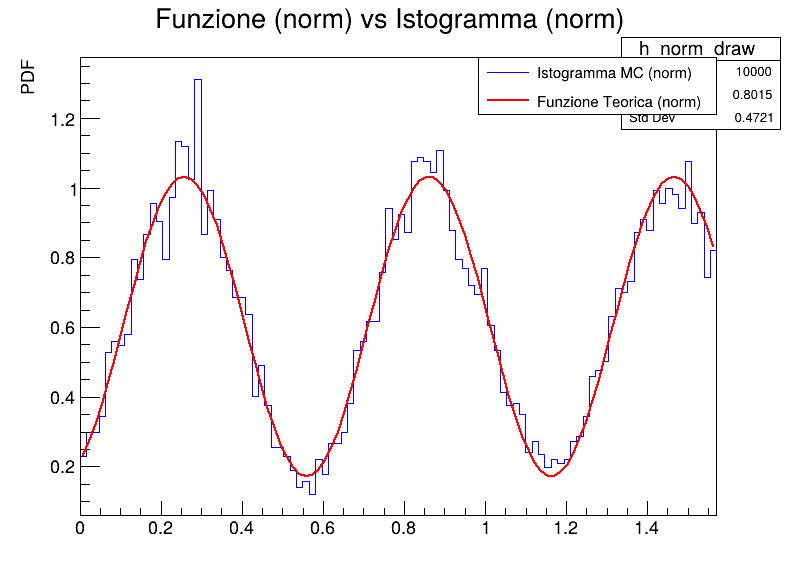
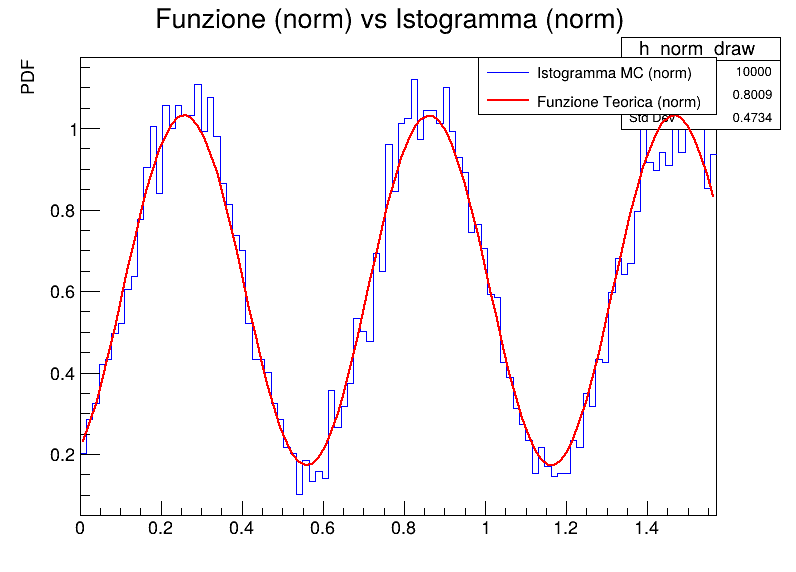
boh sto per morire

diff --git a/mcgenerator.cpp b/mcgenerator.cpp
@@ -23,7 +23,6 @@ MCgenerator::MCgenerator(int N_val, int Bins_val, double k_val, double teta_val,
       x_min(x_min_val),
       x_max(x_max_val),
       h(nullptr) {
-
   // imposto inceretzze sistematiche
   dk = 0.02 * k;
   dteta = 0.05 * teta;
@@ -71,30 +70,7 @@ TH1D* MCgenerator::Fillh() {
   return h;
 }
 
-double MCgenerator::GetRMSD() const {
-  double sum = 0.0;
-  int n_bins = h->GetNbinsX();
-
-  // normalizziamo la funzione per il confronto
-  TF1* f_norm = GetNormalizedFunction(k, teta, b, x_min, x_max);
-  // normalizziamo l'istogramma
-  TH1D* h_norm = (TH1D*)h->Clone("h_norm_temp");
-  h_norm->Scale(1.0 / h_norm->Integral("width"));
-
-  for (int i = 1; i <= n_bins; ++i) {
-    double x = h_norm->GetBinCenter(i);
-    double h_val = h_norm->GetBinContent(i);
-    double f_val = f_norm->Eval(x);
-    double diff = h_val - f_val;
-    sum += diff * diff;
-  }
-
-  delete f_norm;
-  delete h_norm;
-
-  return std::sqrt(sum / n_bins);
-}
-
+// pto 3.2
 TGraphErrors* MCgenerator::GraphMeanWithError(int N_replicas) {
   std::vector<std::vector<double>> bins(Bins);
 
@@ -104,7 +80,7 @@ TGraphErrors* MCgenerator::GraphMeanWithError(int N_replicas) {
     replica.Fillh();
     TH1D* h_replica = replica.GetHistogram();
 
-    // normalizza l'istogramma di replica a PDF
+    // normalizza l'istogramma di replica
     double integral = h_replica->Integral("width");
     if (integral == 0) integral = 1;
     h_replica->Scale(1.0 / integral);
@@ -130,41 +106,41 @@ TGraphErrors* MCgenerator::GraphMeanWithError(int N_replicas) {
     y[i] = mean;
     ey[i] = stddev;
   }
-
   // crea grafico
   auto* graph = new TGraphErrors(Bins, &x[0], &y[0], &ex[0], &ey[0]);
   graph->SetTitle("Incertezza da Rigenerazione (3.2); x; PDF media");
   graph->SetMarkerStyle(20);
   graph->SetLineColor(kBlue + 2);
-
   return graph;
 }
 
+// pto 3.3
 TGraphErrors* MCgenerator::GraphBinSmeering(int N_replicas) {
   std::vector<std::vector<double>> bins(Bins);
   double bin_width = (x_max - x_min) / Bins;
-
   // usiamo la funzione già normalizzata per il valore teorico
   TF1* f_norm = GetNormalizedFunction(k, teta, b, x_min, x_max);
-
   for (int r = 0; r < N_replicas; ++r) {
     for (int i = 0; i < Bins; ++i) {
       double x = x_min + (i + 0.5) * bin_width;
-      double val = f_norm->Eval(x); // valore teorico
+      double val = f_norm->Eval(x);  // valore teorico
 
       // calcolo incertezza statistica attesa per la pdf
       double sigma_stat_pdf = 0.0;
-            if (val > 0) { // evita la divisione per zero o sqrt di negativi
-                sigma_stat_pdf = std::sqrt(val / (N * bin_width)); // l'inceretzza statistica 
-            }
+      if (val > 0) {  // evita la divisione per zero o sqrt di negativi
+        sigma_stat_pdf =
+            std::sqrt(val / (N * bin_width));  // l'inceretzza statistica
+      }
 
-            // fluttua il valore teorico (val) con la sua incertezza statistica (sigma)
-            double smeared = gRandom->Gaus(val, sigma_stat_pdf);
-            bins[i].push_back(smeared);
+      // fluttua il valore teorico (val) con la sua incertezza statistica
+      // (sigma)
+      double smeared = gRandom->Gaus(val, sigma_stat_pdf);
+      bins[i].push_back(smeared);
     }
   }
 
-  delete f_norm;  // pulizia (allocazione dinamica nel metodo GetNormalizedFunction())
+  delete f_norm;  // pulizia (allocazione dinamica nel metodo
+                  // GetNormalizedFunction())
 
   std::vector<double> x(Bins), y(Bins), ex(Bins, 0), ey(Bins);
 
@@ -181,13 +157,11 @@ TGraphErrors* MCgenerator::GraphBinSmeering(int N_replicas) {
     y[i] = mean;
     ey[i] = stddev;
   }
-
   auto* graph = new TGraphErrors(Bins, &x[0], &y[0], &ex[0], &ey[0]);
   graph->SetTitle(
       "Bin-smeering: fluttuazione teorica (3.3); x; Conteggio medio");
   graph->SetMarkerStyle(21);
   graph->SetLineColor(kGreen + 2);
-
   return graph;
 }
 
@@ -253,33 +227,23 @@ TGraphErrors* MCgenerator::GraphParamUncertainty_33(int N_replicas) {
   std::vector<std::vector<double>> bins(Bins);
   TRandom3 rnd(0);
 
-  double dk = 0.02 * k;
-  double dteta = 0.05 * teta;
-  double db = 0.01 * b;
-
   for (int r = 0; r < N_replicas; ++r) {
-    // fluttua i parametri
+    // faccio fluttuare i parametri con gaussiana
     double k_smeared = rnd.Gaus(k, dk);
     double teta_smeared = rnd.Gaus(teta, dteta);
     double b_smeared = rnd.Gaus(b, db);
 
-    // crea funzione temporanea
-    TF1 temp_func("temp_func",
-                  "TMath::Power(TMath::Cos([0] * x + [1]), 2) + [2]", x_min,
-                  x_max);
-    temp_func.SetParameters(k_smeared, teta_smeared, b_smeared);
-
-    // normalizza la funzione
-    double integral = temp_func.Integral(x_min, x_max);
-    if (integral == 0) integral = 1;
-    double scale = 1.0 / integral;
+    // crea funzione temporanea con parametri "che fluttuano"
+    TF1* temp_func =
+        GetNormalizedFunction(k_smeared, teta_smeared, b_smeared, x_min, x_max);
 
     // calcola valori fluttuati
     for (int i = 0; i < Bins; ++i) {
       double x_val = x_min + (i + 0.5) * (x_max - x_min) / Bins;
-      double val = temp_func.Eval(x_val);
-      bins[i].push_back(val * scale);  // store normalized value
+      double val = temp_func->Eval(x_val);  // valore al centro del bin
+      bins[i].push_back(val);  // vettore con valori al centro del bin
     }
+    delete temp_func;
   }
 
   // calcola media e stddev
@@ -289,7 +253,7 @@ TGraphErrors* MCgenerator::GraphParamUncertainty_33(int N_replicas) {
   for (int i = 0; i < Bins; ++i) {
     double sum = 0, sum2 = 0;
     for (double v : bins[i]) {
-      sum += v;
+      sum += v;  // somma dei valori nelle varie generazioni nel bin i
       sum2 += v * v;
     }
     double mean = sum / N_replicas;

diff --git a/functions.cpp b/functions.cpp
@@ -1,34 +1,77 @@
 #include "functions.hpp"
 
-// funzione x normalizzare
-TF1* GetNormalizedFunction(double k, double teta, double b, double x_min, double x_max) {
-    // Crea una NUOVA funzione non normalizzata
-    TF1* f_norm = new TF1("f_norm_temp", "TMath::Power(TMath::Cos([0] * x + [1]), 2) + [2]", 
-                          x_min, x_max);
-    f_norm->SetParameters(k, teta, b);
+#include "mcgenerator.hpp"
 
-    double integral = f_norm->Integral(x_min, x_max);
-    
-    if (integral > 0) {
-        // Se l'integrale è valido, crea la funzione wrapper normalizzata
-        delete f_norm; 
+/*Stats CalculateStats(int Bins, const std::vector<double>& bin_data, size_t n_replicas) {
+  // calcola media e stddev
+  std::vector<double> x(Bins), y(Bins), ex(Bins, 0), ey(Bins);
+  double bin_width = (0.5 * TMath::Pi()) / Bins;
 
-        // Nuova funzione con parametro [0] come fattore di scala
-        f_norm = new TF1("f_norm_pdf", 
-                         "[0]*(TMath::Power(TMath::Cos([1]*x + [2]), 2) + [3])", 
-                         x_min, x_max);
-        f_norm->SetParameter(0, 1.0 / integral); // Fattore di scala (normalizzazione)
-        f_norm->SetParameter(1, k);
-        f_norm->SetParameter(2, teta);
-        f_norm->SetParameter(3, b);
+  for (int i = 0; i < Bins; ++i) {
+    double sum = 0, sum2 = 0;
+    for (double v : bin_data) {
+      sum += v;  // somma dei valori nelle varie generazioni nel bin i
+      sum2 += v * v;
     }
-    
-    f_norm->SetLineColor(kRed);
-    return f_norm;
-}
-// funczione x media
-double function_mean (int N, int sum) {
-    return sum/N;
+    double mean = sum / n_replicas;
+    double stddev = std::sqrt(sum2 / n_replicas - mean * mean);
+
+    x[i] = (i + 0.5) * bin_width;
+    y[i] = mean;
+    ey[i] = stddev;  // incertezza propagata
+  }
+
+return Stats;
+}*/
+// funzione x normalizzare
+TF1* GetNormalizedFunction(double k, double teta, double b, double x_min,
+                           double x_max) {
+  // crea una NUOVA funzione non normalizzata
+  TF1* f_norm =
+      new TF1("f_norm_temp", "TMath::Power(TMath::Cos([0] * x + [1]), 2) + [2]",
+              x_min, x_max);
+  f_norm->SetParameters(k, teta, b);
+  double integral = f_norm->Integral(x_min, x_max);
+  if (integral > 0) {
+    // se l'integrale è valido, crea la funzione wrapper normalizzata
+    delete f_norm;
+    // nuova funzione con parametro [0] come fattore di scala
+    f_norm = new TF1("f_norm_pdf",
+                     "[0]*(TMath::Power(TMath::Cos([1]*x + [2]), 2) + [3])",
+                     x_min, x_max);
+    f_norm->SetParameter(0,
+                         1.0 / integral);  // Fattore di scala (normalizzazione)
+    f_norm->SetParameter(1, k);
+    f_norm->SetParameter(2, teta);
+    f_norm->SetParameter(3, b);
+  }
+
+  f_norm->SetLineColor(kRed);
+  return f_norm;
 }
 
-// funzione x dev std
+
+
+/*double GetRMSD() const {
+  double sum = 0.0;
+  int n_bins = GetHistogram()->GetNbinsX();
+
+  // normalizziamo la funzione per il confronto
+  TF1* f_norm = GetNormalizedFunction(k, teta, b, x_min, x_max);
+  // normalizziamo l'istogramma
+  TH1D* h_norm = (TH1D*)h->Clone("h_norm_temp");
+  h_norm->Scale(1.0 / h_norm->Integral("width"));
+
+  for (int i = 1; i <= n_bins; ++i) {
+    double x = h_norm->GetBinCenter(i);
+    double h_val = h_norm->GetBinContent(i);
+    double f_val = f_norm->Eval(x);
+    double diff = h_val - f_val;
+    sum += diff * diff;
+  }
+
+  delete f_norm;
+  delete h_norm;
+
+  return std::sqrt(sum / n_bins);
+}*/

diff --git a/functions.hpp b/functions.hpp
@@ -1,11 +1,20 @@
 #ifndef FUNCTIONS_HPP
 #define FUNCTIONS_HPP
 #include <TF1.h>
+#include <TH1D.h>
 #include <TMath.h>
 
 #include <string>
+
+struct Stats {
+  double mean;
+  double stddev;
+};
+
+//Stats CalculateStats(const std::vector<double>& bin_data, size_t n_replicas);
 TF1* GetNormalizedFunction(double k, double teta, double b, double x_min,
                            double x_max);
-double function_mean(int N, int sum);  // non la sto usando x ora
+
+// double GetRMSD() const;
 
 #endif

diff --git a/mcgenerator.hpp b/mcgenerator.hpp
@@ -49,8 +49,6 @@ class MCgenerator {
   void CreateHistogram(const char* name = "h", const char* title = "myHisto");
   TH1D* GetHistogram() const;  // per accedere all'istogramma
   TH1D* Fillh();               // riempe istogramma
-  double GetRMSD()
-      const;  // ritorna la radice quadrata della media degli scarti al quadrato
 
   // pto 3.2
   TGraphErrors* GraphMeanWithError(int N_replicas);

diff --git a/README.md b/README.md
@@ -11,7 +11,7 @@ nel metodo drawfunction l'obbiettivo è generare dopo aver generato un istogramm
 
 da fare
 - aggiungere alla "legenda" lo scarto quadratico medio
-- creare file con funzioni media, dev std e normalizzazione funzione sicuro poi vedi se ne puoi mettere altre usate spesso
+- creare file con funzioni media, dev std
 - vedi se da 4 metodi ne riesci a fare due (TGraphErrors* GraphMeanWithError(int N_replicas);
 
   // pto 3.3
